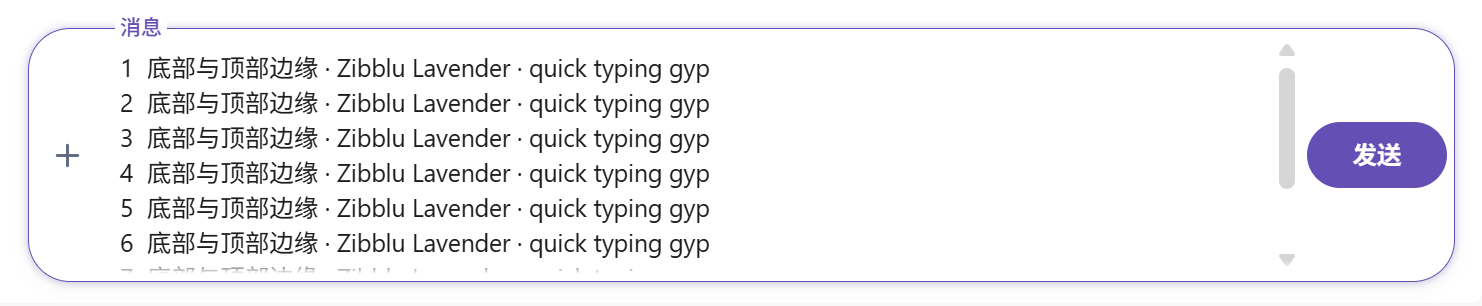
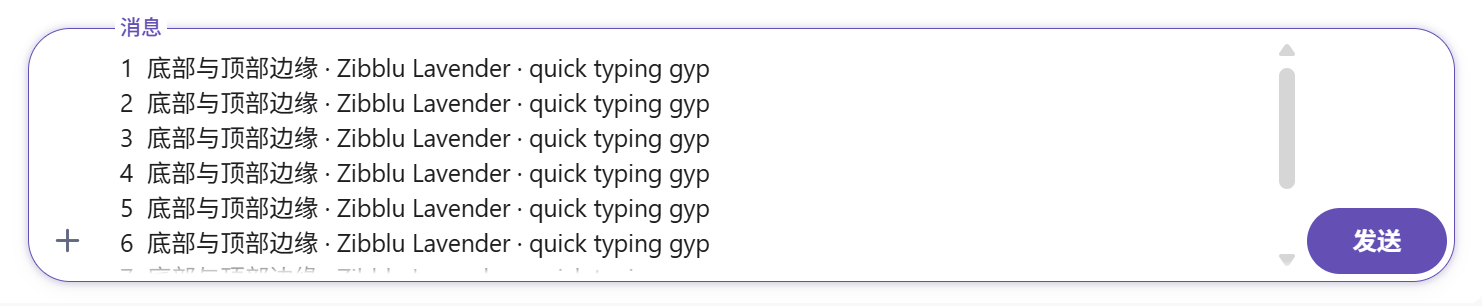
fix(chat): 固定 Windows 输入框的加号和发送按钮

diff --git a/apps/desktop/src/style.css b/apps/desktop/src/style.css
@@ -1157,7 +1157,9 @@ html:has(body.windows .shell) { background: transparent; }
 .windows .chat-view .composer-input {
   --composer-inset: 4px;
   --composer-text-inset: 8px;
-  align-items: center; padding: var(--composer-inset);
+  grid-template-areas: ". editor ." "attach editor send";
+  grid-template-rows: 1fr auto;
+  align-items: center; row-gap: 0; padding: var(--composer-inset);
   border: 1px solid var(--line); border-radius: 24px;
   background: var(--panel); box-shadow: var(--shadow);
   transition: border-color .15s ease, box-shadow .15s ease;
@@ -1167,15 +1169,17 @@ html:has(body.windows .shell) { background: transparent; }
   box-shadow: var(--shadow), 0 0 4px 1px color-mix(in srgb, var(--accent) 20%, transparent);
 }
 .windows .chat-view .composer-input.ai-composer {
+  grid-template-areas: "editor ." "editor send";
   grid-template-columns: minmax(0, 1fr) auto; padding-inline-start: 12px;
 }
 .windows .chat-view .composer-input > :is(.composer-plus, .send-button) {
-  grid-area: auto; margin: 0; border-radius: 9999px;
+  margin: 0; border-radius: 9999px;
 }
-.windows .chat-view .composer-plus { width: 36px; min-width: 36px; height: 36px; }
+.windows .chat-view .composer-plus { grid-area: attach; width: 36px; min-width: 36px; height: 36px; }
+.windows .chat-view .composer-input > .send-button { grid-area: send; }
 .windows .chat-view .composer-input > .floating-field {
   --label-start: calc(var(--composer-text-inset) - 3px);
-  grid-area: auto; align-self: stretch; margin: 0; padding: 0;
+  grid-area: editor; align-self: stretch; margin: 0; padding: 0;
   border: 0; border-radius: 0; outline: none; box-shadow: none; background: none;
 }
 .windows .chat-view .composer-input .composer-text {

diff --git a/docs/windows-feedback/issue84/round1/check.md b/docs/windows-feedback/issue84/round1/check.md
@@ -2,12 +2,13 @@
 
 在 Windows 11 的 Tauri 窗口中检查，WebView2 为 157，显示缩放为 175%，内容视口为 1191 × 791 CSS px。改动前使用提交 `8ae2f96` 的前端生产资源，改动后使用内置资源的 Tauri 构建。两次均连接同一个环回服务，使用同一份合成聊天记录。
 
-`design` 采用消息应用布局。会话记录占据可伸缩空间，单行胶囊把附件、编辑区和发送组织在一行。输入扩展时三个区域保持独立列。按安装的 Always UI 阅读了设计原型、数值预设、视觉纪律、实现说明和检查目录，并从上游补读设计强度说明。复用 Lavender、`--panel`、`--shadow`、`--edge-fade`、现有控件尺寸和浮动标签。圆角取预设的 24 px，六行上限按已有行高计算。
+`design` 采用消息应用布局。会话记录占据可伸缩空间，单行胶囊把附件、编辑区和发送组织在一行。文字增多时编辑区向上扩展，两个按钮保留在胶囊底部的单行位置。按安装的 Always UI 阅读了设计原型、数值预设、视觉纪律、实现说明和检查目录，并从上游补读设计强度说明。复用 Lavender、`--panel`、`--shadow`、`--edge-fade`、现有控件尺寸和浮动标签。圆角取预设的 24 px，六行上限按已有行高计算。
 
 | 程度 | 位置 | 观察与影响 | 整改 | 实测 |
 | --- | --- | --- | --- | --- |
 | P2 · C05/C06 | 空输入区 | 原编辑区 56 px，提示与左右按钮的视觉中心分离 | 输入区单行起步，三列居中，柔和投影集中在胶囊 | 新编辑区 36 px，外框约 47 px。聚焦前后外框尺寸一致，1 px 边框变色。[改动前](../before/wide-idle.png) · [改动后](wide-idle.png) · [聚焦](wide-focus.png) |
 | P2 · C16/C19 | 长草稿顶部 | 滚到底部时，旧遮罩的顶部过渡为 0 px，裁切的文字呈硬边 | 用文本框的滚动位置驱动独立渐隐层 | 滚到底部可见顶部渐隐。未溢出、在顶端、在中间、到底部均截图。[改动前到底](../before/at-bottom.png) · [无渐隐](fade-none.png) · [仅下侧](fade-top.png) · [两侧](fade-middle.png) · [仅上侧](fade-bottom.png) |
 | P3 · C03/C20 | 加号菜单 | 旧菜单单列图片粘贴，用户需要区分多个粘贴入口 | 加号只列选择附件与文件夹 | 菜单为两项。Escape 返回加号，Tab 进入编辑区。[改动前](../before/tools.png) · [改动后](tools.png) |
+| P2 · C06/C08 | 多行草稿的操作位置 | 初版从一行扩到六行时，两侧按钮均上移 49 CSS px | 两个按钮在胶囊底部的同一行居中，编辑区占用上方增长空间 | 从单行到 2、5、6、7 行，以及滚动和清空草稿时，两按钮的横纵坐标一致。六行时胶囊上沿抬高 98 CSS px。[单行](wide-focus.png) · [六行](fade-none.png) |
 
-1、2、5、6、7 行时编辑区为 36、56、116、136、136 CSS px。胶囊底边固定，六行时聊天记录区相应缩短约 98 px，已在底部时保持跟随，查看旧消息时保留原滚动位置。实际客户端通过了 Shift+Enter、Enter、切换会话恢复草稿、超限禁用、输入 `@` 触发建议和 WebView2 中文组合提交。[组合输入](composing.png)
+1、2、5、6、7 行时编辑区为 36、56、116、136、136 CSS px。胶囊底边固定，六行时聊天记录区相应缩短约 98 px，已在底部时保持跟随，查看旧消息时保留原滚动位置。首次验收通过了 Shift+Enter、Enter、切换会话恢复草稿、超限禁用、输入 `@` 触发建议和 WebView2 中文组合提交。[首次验收的组合输入](composing.png)

diff --git a/docs/windows-feedback/issue84/round2/check.md b/docs/windows-feedback/issue84/round2/check.md
@@ -5,9 +5,10 @@
 | 检查项 | 本轮观察与影响 | 实测 |
 | --- | --- | --- |
 | C01/C03/C05/C06/C23 · 输入层级 | 空输入时三个控件居中，约 47 px 的胶囊承载一层描边和常态投影。发送是本区唯一高强调操作。聚焦变色且尺寸一致 | [空输入](wide-idle.png) · [聚焦](wide-focus.png) |
+| C06/C08 · 操作位置 | 单行时两侧按钮垂直居中。文字向上扩展时，两按钮保持单行时的横纵坐标 | 重启客户端后在 1191 CSS px 宽窗复测 1、2、5、6、7 行和内部滚动，两个按钮的坐标一致。在 535 CSS px 实际窄窗中，从一行到填入长草稿并滚到底，两个按钮也保持原位。[窄窗单行](narrow-idle.png) · [窄窗长稿](narrow-534.png) |
 | C16/C17 · 长内容与滚动 | 1、2、5、6、7 行的编辑区高度为 36、56、116、136、136 CSS px。记录区跟随让位。窄窗长草稿 1376 px 内容高在 136 px 编辑区内纵向滚动，横向滚动宽度与可见宽度相同 | [窄窗](narrow-idle.png) · [窄窗长草稿](narrow-534.png) · [最大化](maximized.png)。恢复窗口后回到原尺寸，窄窗菜单全部位于视口内 |
 | C11/C19 · 渐隐与编辑 | 剪裁状态按实际滚动位置切换。到底后仍可读完整可见行、光标清晰，顶部能看到淡出 | [未溢出](fade-none.png) · [顶端](fade-top.png) · [中间](fade-middle.png) · [底部](fade-bottom.png) |
-| C11/C13/C19 · 原生输入 | Tab 到编辑器，Shift+Enter 换行，Enter 发送，切换会话可取回草稿。超限提示明确并禁用发送，输入 `@` 后出现建议。Windows 系统拼音输入 `ni` 后出现候选，空格提交「你」到草稿 | [系统拼音候选](native-ime.jpg) · [WebView2 组合输入](composing.png) |
+| C11/C13/C19 · 原生输入 | Tab 到编辑器，Shift+Enter 换行，Enter 发送，切换会话可取回草稿。超限提示明确并禁用发送，输入 `@` 后出现建议。Windows 系统拼音输入 `ni` 后出现候选，空格提交「你」到草稿 | [系统拼音候选](native-ime.jpg) · [首次验收的 WebView2 组合输入](composing.png) |
 | C09/C11/C20 · 附件与粘贴 | 两个菜单项分别打开 Windows 文件和文件夹选择器，选择后会话收到 TXT 和 ZIP 文件卡片。从资源管理器复制合成文件，编辑区 Ctrl+V 先显示目标会话和文件名，确认后发送。纯文本和图片分别通过 Ctrl+V 与右键粘贴，图片也成功发送 | [两项加号菜单](tools.png) · [资源管理器粘贴确认](explorer-confirm.png) · [发送结果](attachments-sent.png) · [右键图片](image-context.png) · [快捷键图片](image-keyboard.png) |
 
 本轮未发现需要继续调整的输入器问题。iPhone 和 iPad 的实机验收为 **BLOCKED**，当前环境没有对应设备。
